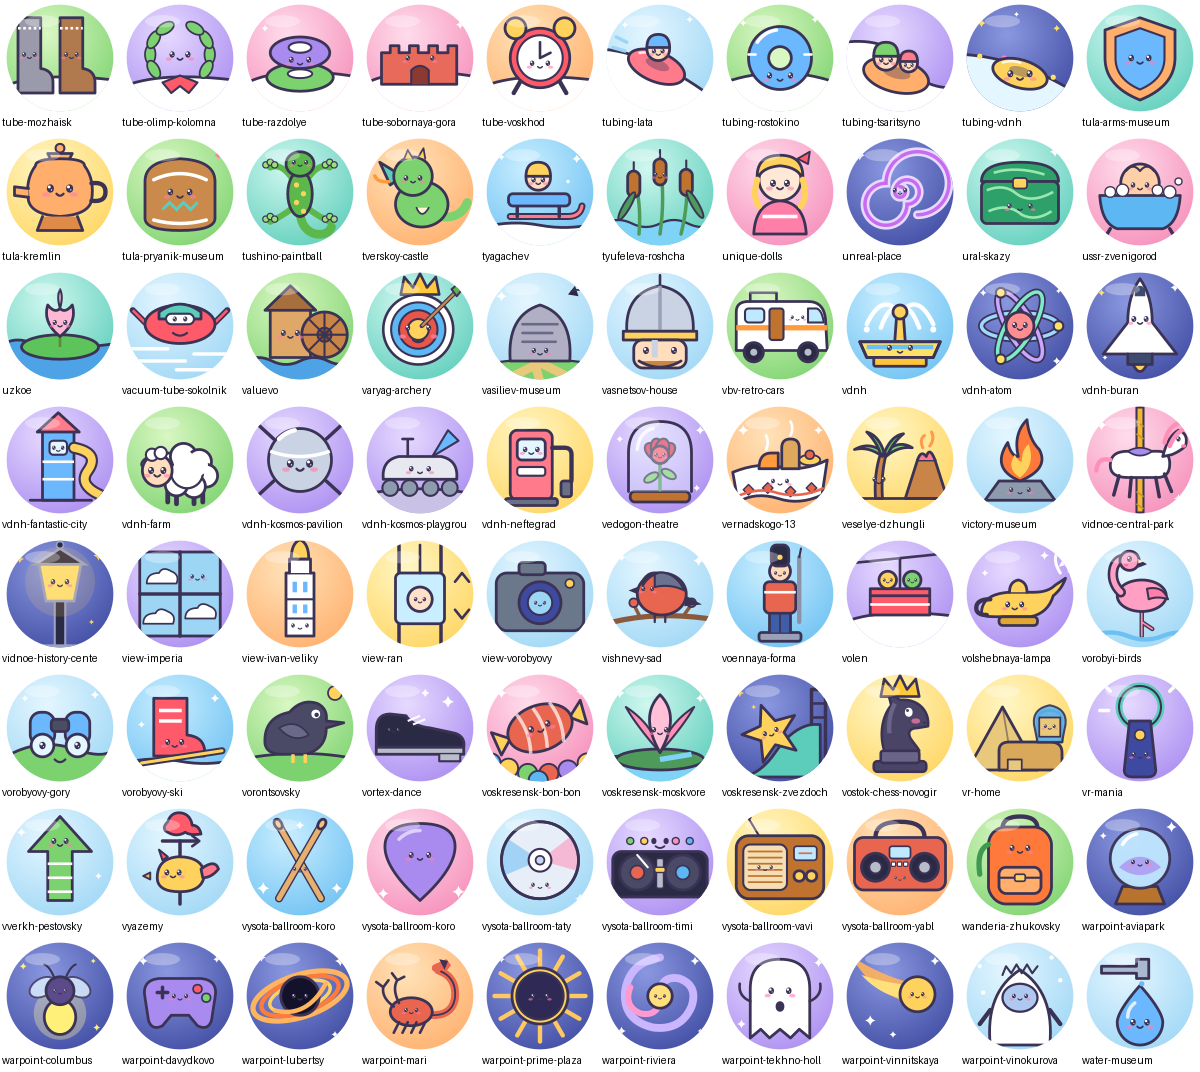
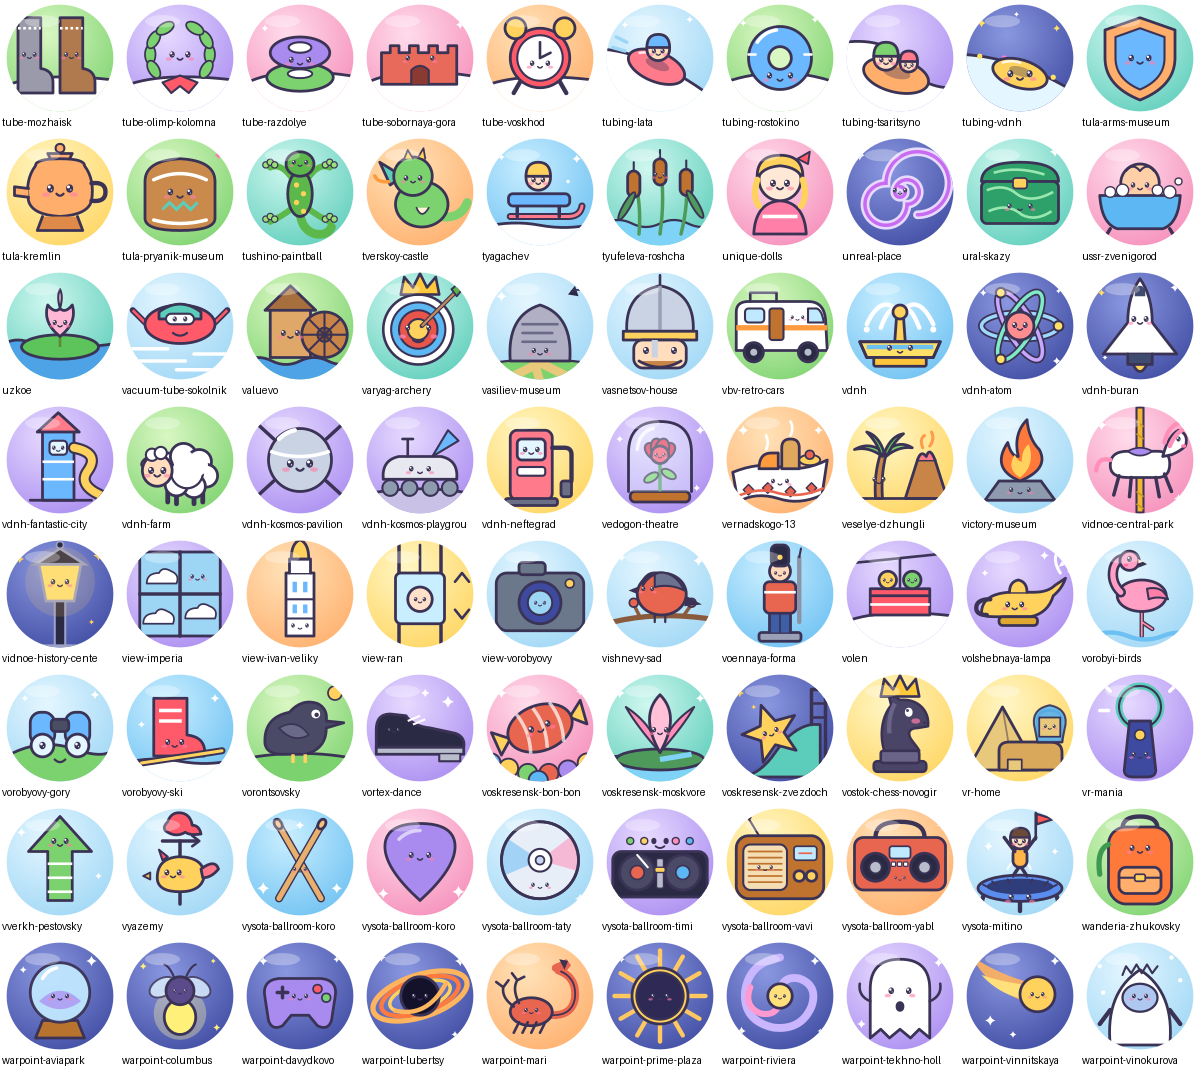
Сборка: places.json, иконки, страницы

Changed region(s): [[0.1233, 0.7388, 1.0, 1.0], [0.0, 0.8927, 0.0925, 1.0], [0.2467, 0.9851, 0.2775, 1.0]]

diff --git a/p/vysota-mitino/index.html b/p/vysota-mitino/index.html
@@ -1,0 +1,96 @@
+<!doctype html>
+<html lang="ru">
+<head>
+<meta charset="utf-8">
+<meta name="viewport" content="width=device-width, initial-scale=1">
+<title>Батутный центр «Высота» (Митино) — Куда пойти с детьми</title>
+<meta property="og:title" content="Батутный центр «Высота» (Митино)">
+<meta property="og:description" content="Дубравная ул., 51, стр. 1 · м. Пятницкое шоссе · 37 батутов, поролоновая яма, верёвочный парк, лабиринт и детский городок 0+ в одном месте">
+<meta property="og:image" content="https://vadimsurov-apps.github.io/kudapoiti-data/p/img/vysota-mitino.png">
+<meta property="og:url" content="https://vadimsurov-apps.github.io/kudapoiti-data/p/vysota-mitino/">
+<meta name="twitter:card" content="summary">
+<meta name="theme-color" content="#F2905F">
+<style>
+:root{--bg:#FFF7F1;--card:#fff;--ink:#2B2320;--mute:#7A6E68;--accent:#F2905F;--blue:#2F7BEA;--red:#E5484D;--line:#F0E4DB}
+@media (prefers-color-scheme:dark){:root:not([data-theme="light"]){--bg:#1C1816;--card:#26201D;--ink:#F5EEE9;--mute:#B4A79F;--line:#3A312C}}
+*{box-sizing:border-box}
+body{margin:0;background:var(--bg);color:var(--ink);font:16px/1.45 -apple-system,BlinkMacSystemFont,"Segoe UI",Roboto,sans-serif}
+main{max-width:520px;margin:0 auto;padding:20px 16px 40px}
+.brand{display:flex;align-items:center;gap:8px;color:var(--mute);font-size:14px;margin-bottom:14px}
+.card{background:var(--card);border-radius:22px;padding:20px;box-shadow:0 2px 14px rgba(0,0,0,.06)}
+.head{display:flex;gap:14px;align-items:center}
+.icon{width:72px;height:72px;border-radius:50%;background:#FDE7DA;display:grid;place-items:center;font-size:36px;flex:none;overflow:hidden}
+.icon img{width:100%;height:100%}
+h1{font-size:22px;line-height:1.2;margin:0}
+.type{color:var(--mute);margin-top:4px}
+.row{display:flex;gap:10px;margin-top:14px;align-items:flex-start}
+.row b{font-weight:600}
+.chips{display:flex;flex-wrap:wrap;gap:6px;margin-top:14px}
+.chip{background:var(--line);border-radius:999px;padding:4px 12px;font-size:14px}
+.deal{margin-top:14px;border:2px solid var(--red);border-radius:16px;padding:10px 14px}
+.deal b{color:var(--red)}
+.btn{display:block;text-align:center;text-decoration:none;font-weight:600;border-radius:16px;padding:14px;margin-top:12px}
+.primary{background:var(--accent);color:#fff}
+.second{background:var(--line);color:var(--ink)}
+.note{color:var(--mute);font-size:13px;margin-top:16px;text-align:center}
+</style>
+</head>
+<body>
+<main>
+  <div class="brand">🎈 Куда пойти с детьми · Москва и Подмосковье</div>
+  <div class="card" id="card"><p>Загружаем место…</p></div>
+  <a class="btn primary" id="open" href="#">Открыть в приложении</a>
+  <a class="btn second" id="store" href="#">Скачать приложение</a>
+  <p class="note">Карта детских мест: часы работы, время в пути, скидки и бесплатные пробные занятия.</p>
+</main>
+<script>
+const APP_STORE_URL = ""; // появится после публикации в App Store
+const BASE = "https://raw.githubusercontent.com/vadimsurov-apps/kudapoiti-data/main/";
+const id = "vysota-mitino";
+const esc = s => String(s ?? "").replace(/[&<>"]/g, c => ({"&":"&amp;","<":"&lt;",">":"&gt;",'"':"&quot;"}[c]));
+document.getElementById("open").href = "kudapoiti://place/" + encodeURIComponent(id);
+const store = document.getElementById("store");
+if (APP_STORE_URL) store.href = APP_STORE_URL;
+else { // пока приложения нет в App Store — главная кнопка ведёт на карту-сайт
+  const op = document.getElementById("open");
+  op.textContent = "Открыть на карте"; op.href = "https://vadimsurov-apps.github.io/kudapoiti-data/?id=" + encodeURIComponent(id);
+  store.textContent = "Карта в Telegram"; store.href = "https://t.me/kudapoiti_deti_bot?start=map"; }
+
+async function load() {
+  const card = document.getElementById("card");
+  try {
+    const [pl, dl, ic] = await Promise.all([
+      fetch(BASE + "places.json").then(r => r.json()),
+      fetch(BASE + "deals.json").then(r => r.json()).catch(() => ({})),
+      fetch(BASE + "icons/index.json").then(r => r.json()).catch(() => [])]);
+    const p = (pl.places || []).find(x => x.id === id);
+    if (!p) { card.innerHTML = "<p>Место не найдено. Возможно, оно закрылось.</p>"; return; }
+    document.title = p.name + " — Куда пойти с детьми";
+    const icons = Array.isArray(ic) ? ic : (ic.icons || Object.keys(ic));
+    const icon = icons.includes(p.id) ? `<img src="${BASE}icons/${encodeURIComponent(p.id)}.png" alt="">` : "🎈";
+    const today = new Date().toISOString().slice(0, 10);
+    const deals = (Array.isArray(dl) ? dl : (dl.deals || []))
+      .filter(d => d.place_id === p.id && (!d.until || d.until >= today));
+    const price = p.price_child === 0 ? "Бесплатно" : (p.price_child ? `Детский билет ${p.price_child} ₽` : null);
+    const chips = [p.age_min != null && p.age_max != null ? `${p.age_min}–${p.age_max} лет` : null,
+                   p.indoor === "yes" ? "Под крышей" : null, price].filter(Boolean);
+    const yamap = p.lat ? `https://yandex.ru/maps/?pt=${p.lon},${p.lat}&z=17&l=map` : null;
+    const route = p.lat ? `https://yandex.ru/maps/?rtext=~${p.lat},${p.lon}&rtt=auto` : null;
+    card.innerHTML = `
+      <div class="head"><div class="icon">${icon}</div>
+        <div><h1>${esc(p.name)}</h1><div class="type">${esc((p.type || [])[0] || "")}${p.metro ? " · м. " + esc(p.metro) : ""}</div></div></div>
+      ${p.address ? `<div class="row">📍<div>${esc(p.address)}</div></div>` : ""}
+      ${p.how_to_find ? `<div class="row">🧭<div><b>Как найти:</b> ${esc(p.how_to_find)}</div></div>` : ""}
+      ${p.hours ? `<div class="row">🕘<div>${esc(p.hours)}</div></div>` : ""}
+      ${p.plus ? `<div class="row">👍<div>${esc(p.plus)}</div></div>` : ""}
+      ${chips.length ? `<div class="chips">${chips.map(c => `<span class="chip">${esc(c)}</span>`).join("")}</div>` : ""}
+      ${deals.map(d => `<div class="deal"><b>% ${esc(d.title)}</b>${d.details ? "<br>" + esc(d.details) : ""}${d.until ? `<br><small>до ${esc(d.until)}</small>` : ""}</div>`).join("")}
+      ${yamap ? `<a class="btn second" href="${yamap}">Показать на карте</a><a class="btn second" href="${route}">Построить маршрут</a>` : ""}`;
+  } catch (e) {
+    card.innerHTML = "<p>Не удалось загрузить место. Проверьте интернет и обновите страницу.</p>";
+  }
+}
+load();
+</script>
+</body>
+</html>
